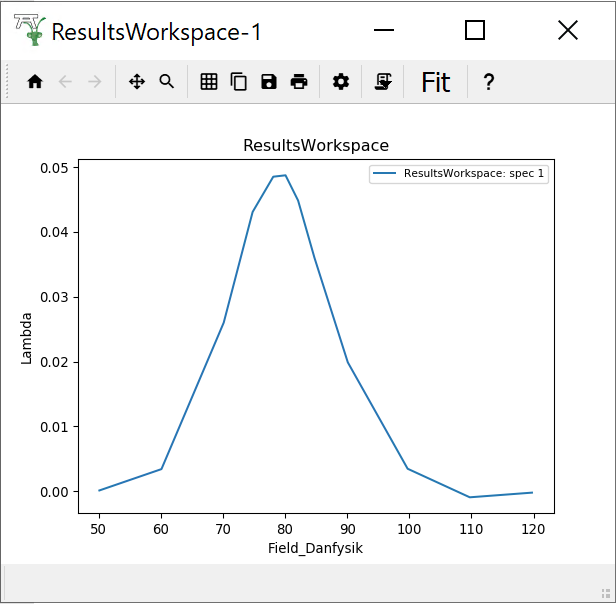
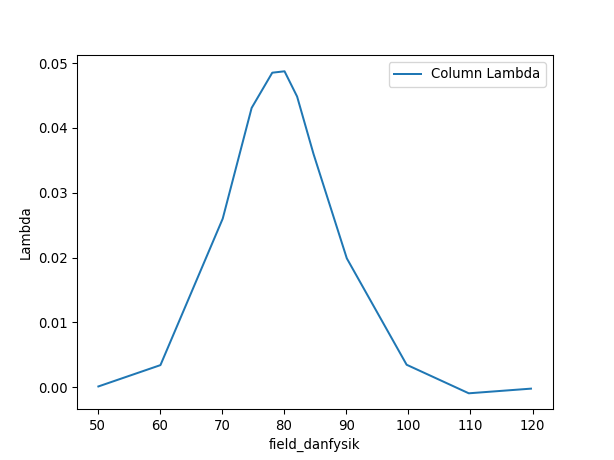
Re #30150 MA Testing Docs Updates
Updates to muon testing

Changed region(s): [[0.0, 0.0, 1.0, 1.0], [0.6189, 0.7, 0.6498, 0.7609]]

diff --git a/dev-docs/source/Testing/MuonInterface/MuonTesting.rst b/dev-docs/source/Testing/MuonInterface/MuonTesting.rst
@@ -42,18 +42,21 @@ Ionic Diffusion Test
 	- Set ``A0 = 0.05``, ``Asym = 0.15``, ``Delta = 0.2`` and ``Nu = 0.1``
 	- Click the value for the **Field** parameter; A ``...`` should appear next 
 	  to it, click it. A new window should appear
-	- On the **Set** dropdown menu, select **Fix All**
-	- Enter values ``0``, ``5`` and ``10`` for each run respectively
+	- Check the box called **Log**
+	- Change the log to be **field_danfysik**
+	- Click a row in the table
+	- Click the **Set** drop down menu and choose **Set all to log**
+	- Do the same but this time choose **Fix all**, then click **Ok**
 	- Click Fit
 - Go to the **Results** tab
 	- At the bottom of the interface, click **Output Results**
 	- A table should appear in the workspaces toolbox called *Results Table*
 - Click on the main Workbench window and open the results table
 - Expected Values are (similar to within 50%):
-	- **f0.A0:** ``-0.083439833711330152``
-	- **f1.Asym:** ``0.19125607982528858``
-	- **f1.Delta:** ``0.3301445010124604``
-	- **f1.Nu:** ``0.8574644977974730220884``
+	- **f0.A0:** ``-0.0467``
+	- **f1.Asym:** ``0.155``
+	- **f1.Delta:** ``0.389``
+	- **f1.Nu:** ``0.474``
 	
 - Back in the workspaces toolbox, click the workspace group for the fitted,
   data (Name similar to *EMU51341; Pair Asym; long; MA+ ...; Fitted; FlatBackground,DynamicKuboToyabe*)
@@ -75,7 +78,7 @@ Superconducting Copper Test
 
 - Open **Muon Analysis** (*Interfaces* > *Muon* > *Muon Analysis*)
 - Change *Instrument* to **EMU**, found in the *Home* tab
-- Load run ``20882``
+- Load run ``20889-20900``
 - Using the **>** button, step through a couple files (Plot should
   update each time)
 - Go to the **Fitting** tab
@@ -87,17 +90,10 @@ Superconducting Copper Test
 - Go to the **Results** tab
 	- In the **Log Values** table, check **run_number** and **Field_Danfysik**
 	- Click **Output Results**
-- In the main Workbench window, in the **Algorithms Toolbox**, search for the 
-  algorithm **ConvertTableToMatrixWorkspace** and click **Execute**
-- In the resulting dialog, set the following parameters
-	- **Input Workspace:** ``ResultsTable``
-	- **Output Workspace:** ``ResultsWorkspace``
-	- **Column X:** ``Field_Danfysik``
-	- **Column Y:** ``Lambda``
-	- **Column E:** ``set as empty``
-	- Click **Run**
-- Double click the resulting workspace. You should get something like the 
-  following plot	
+- Open the results table by double clicking the table in the workspace toolbox
+- Ctrl-Click the **field_danfysik** and the **lambda** column
+- Right click **lambda** column, click **Plot...** and then **Line**
+- You should get something like the following plot:
 	  
 .. figure:: ../../images/MuonAnalysisTests/Cu-fitting.png
 	:alt: Cu-fitting.png
@@ -113,13 +109,12 @@ HIFI Transverse Field Simultaneous Fitting
 
 - Open **Muon Analysis** (*Interfaces* > *Muon* > *Muon Analysis*)
 - Change *Instrument* to **HIFI**, found in the *Home* tab
-- Load the first file; ``134028``
-- Using the **>** button, step through and load all files until file 
-  ``134034`` is loaded
+- Load runs ``134028-39``
 - Go to the **Grouping** tab
-	- In the Pair table, click **Guess Alpha** 
+	- In the Pair table, click **Guess Alpha**
+	- In the resulting dialog, change the run to ``HIFI134034`` to be used for 
+	  the calculation
 	- A value close to ``1.3`` should appear
-- Using the **>** button again, load all runs up to ``134039``
 - Go to the **Fitting** tab
 	- Check the **Simultaneous fit over** checkbox, and change from **Run** 
 	  to **Group/Pair**
@@ -131,28 +126,18 @@ HIFI Transverse Field Simultaneous Fitting
 	- Click **Fit**
 - The fit should fail with a large **Chi** value (``>100``)
 - Now to try the fit a different way.
-- In the main workbench window, delete all the workspaces from the workspace 
-  toolbox
-- Open **Muon Analysis** again (*Interfaces* > *Muon* > *Muon Analysis*) 
-- Make sure the instrument **HIFI** is still selected, load run ``134034``
-- Go to the **Grouping** tab once again
-	- Click **Guess Alpha** in the **Pair table**
-- Load in runs ``134028-39``
-- Go to the **Fitting** tab
-	- Check the **Simultaneous fit over** checkbox, and change from **Run** 
-	  to **Group/Pair**
-	- Add the same functions as above (**Flat Background** and **ExpDecOsc**),
-	  and set all parameters to **Global** again except for **Frequency**
+	- Click **Undo Fits**
 	- Click the value for the **Frequency** parameter; A ``...`` should appear 
 	  next to it, click it. A new window should appear
-	- Enter values for each run in the table as ``0.1-1.1`` in steps of ``0.1``
+	- Enter values for each run in the table as from ``0.1`` to ``1.1`` in 
+	  steps of ``0.1``
 	- Click **Ok**
-- Click **Fit**
+	- Click **Fit**
 - This time the fit should work with a significantly lower value for **Chi 
   squared** (``<10``)
-- Back in the main workbench window, Click on the fitting workspace
-- Pick one of the workspaces, double click and with plot type as **Individual**,
-  click **Plot All**
+- Back in the main workbench window, expand the fitting workspace and pick one 
+  of the fitted workspaces
+- Double click and with plot type as **Individual**, click **Plot All**
 - You should get plots that look like this:
 
 .. figure:: ../../images/MuonAnalysisTests/HIFI-TF-Result.png
@@ -171,10 +156,11 @@ Transverse Field Asymmetry Test
 - Change *Instrument* to **MUSR**, found in the *Home* tab
 - Load run ``62260``
 - Go to the **Fitting** tab
-	- Change **Select Sorkspace** to the **fwd** group
+	- Change **Select Workspace** to workspace containing the **fwd** in the 
+	  name 
 	- Right click the empty table area; Select **Add Function**
-	- Add a **Flat Background** (*Background* > *Flat Background*)
-	- Similarly, add **GuasOsc** (*Muon* > *MuonGeneric* > *GausOsc*)
+	- Add **GuasOsc** (*Muon* > *MuonGeneric* > *GausOsc*)
+	- Set ``Frequency = 1.3``
 	- In the bottom table, check **TF Asymmetry Mode** to be ``true``
 	- Click **Fit**
 	

diff --git a/dev-docs/source/Testing/MuonAnalysis_test_guides/Muon_Analysis_test_group_3_results.rst b/dev-docs/source/Testing/MuonAnalysis_test_guides/Muon_Analysis_test_group_3_results.rst
@@ -31,11 +31,11 @@ Test 1: Individual And Co-Added Fits
 - In the **Results** tab, in the top log values table, check **run_number** 
   and **sample_temp**
 - Change **Function Name** to be **FlatBackground,Abragam** or equivalent
-- The bottom table should have all fit workspaces which used both 
+- The bottom table should have all fit workspaces that used both 
   **Flat Background** and the **Abragam** functions
 - Click **Unselect All**
 - Change **Table Name** to ``IndividualFitsTable``
-- Check all boxes next to workspaces which are individual fits, including the 
+- Check all boxes next to workspaces that are individual fits, including the 
   co-added workspace
 - This should look a little something like this:
 
@@ -47,12 +47,12 @@ Test 1: Individual And Co-Added Fits
 - Click **Output Results**
 - In the main workbench window, in the workspace toolbox, open the results 
   table
-- View the table
-- The table should hae four rows
-- **sample_temp** should be correctly expresses as a range ``180-200`` for the 
-  co-added runs
+- The table should have four rows, one for each individual fit
+- **sample_temp** should be correctly expresses as an average for the co-added 
+  runs, in this case the average is ``190`` (``180+190+200/3``)
 - There should be several pairs of columns, one for each parameter and one for 
-  the error of the parameter, plus a final column **Cost function value**
+  the error of the parameter, plus a final column called 
+  **Cost function value**
 - The table should look similar to this:
 
 .. image:: /images/MuonAnalysisTests/results_test1.png
